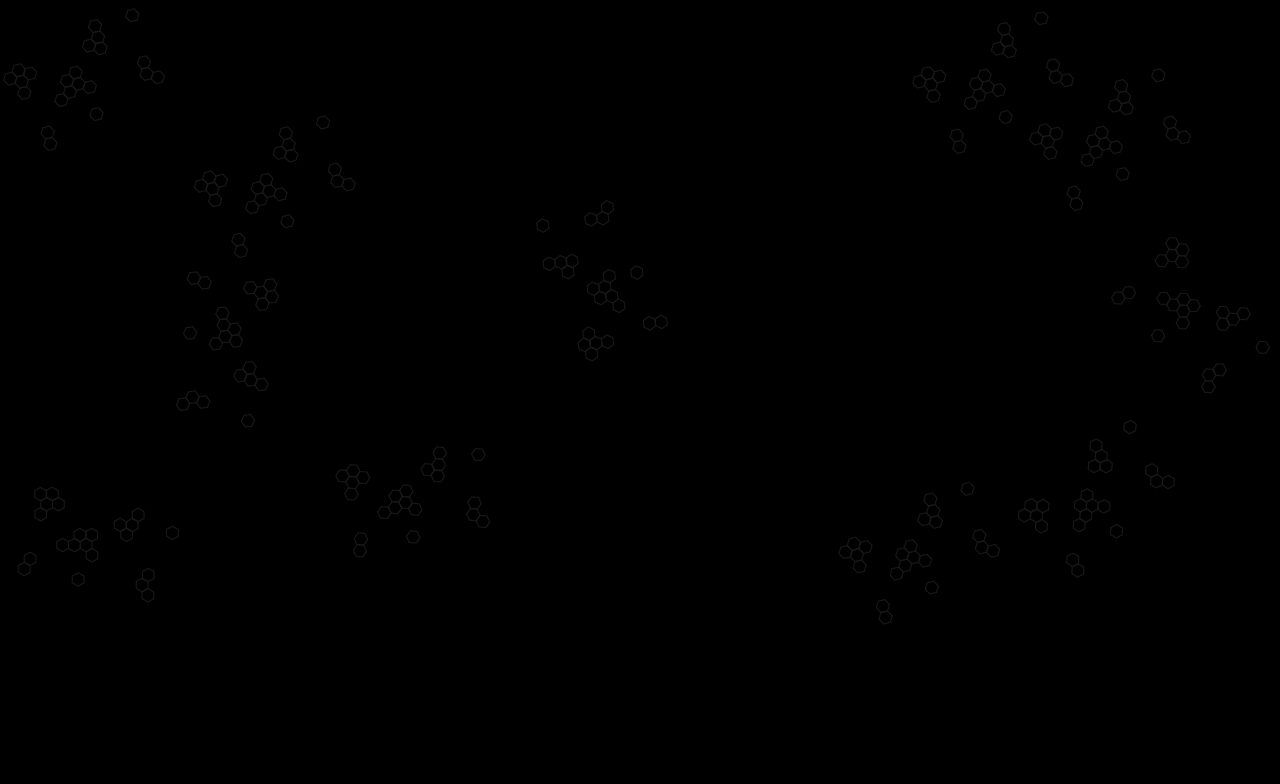
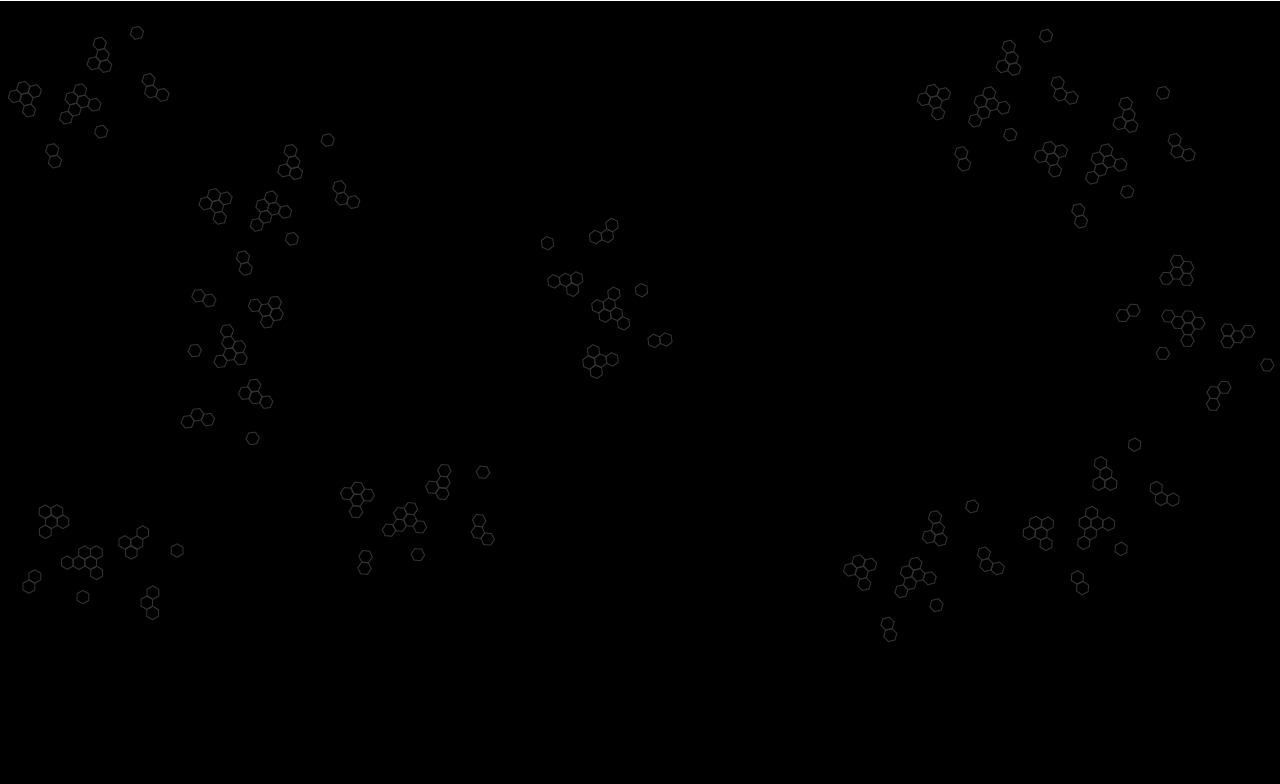
Update bg images

diff --git a/TheEvolution/Properties/Resources.Designer.cs b/TheEvolution/Properties/Resources.Designer.cs
@@ -103,36 +103,6 @@ namespace TheEvolution.Properties {
         /// <summary>
         ///   查詢類型 System.Drawing.Bitmap 的當地語系化資源。
         /// </summary>
-        internal static System.Drawing.Bitmap bg3 {
-            get {
-                object obj = ResourceManager.GetObject("bg3", resourceCulture);
-                return ((System.Drawing.Bitmap)(obj));
-            }
-        }
-        
-        /// <summary>
-        ///   查詢類型 System.Drawing.Bitmap 的當地語系化資源。
-        /// </summary>
-        internal static System.Drawing.Bitmap bg4 {
-            get {
-                object obj = ResourceManager.GetObject("bg4", resourceCulture);
-                return ((System.Drawing.Bitmap)(obj));
-            }
-        }
-        
-        /// <summary>
-        ///   查詢類型 System.Drawing.Bitmap 的當地語系化資源。
-        /// </summary>
-        internal static System.Drawing.Bitmap bg5 {
-            get {
-                object obj = ResourceManager.GetObject("bg5", resourceCulture);
-                return ((System.Drawing.Bitmap)(obj));
-            }
-        }
-        
-        /// <summary>
-        ///   查詢類型 System.Drawing.Bitmap 的當地語系化資源。
-        /// </summary>
         internal static System.Drawing.Bitmap BloodBar1 {
             get {
                 object obj = ResourceManager.GetObject("BloodBar1", resourceCulture);

diff --git a/TheEvolution/Stage/ImageContainer.cs b/TheEvolution/Stage/ImageContainer.cs
@@ -55,7 +55,6 @@ namespace TheEvolution.Stage {
             imgBackground = new List<Bitmap>() {
                 new Bitmap(Resources.bg1, size),
                 new Bitmap(Resources.bg2, size),
-                new Bitmap(Resources.bg3, size)
             };
         }
 
